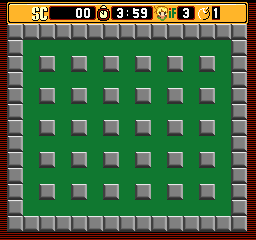
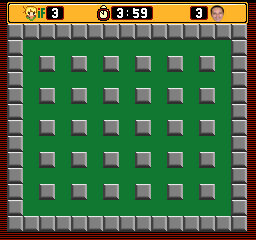
dano no boss

Changed region(s): [[0.5938, 0.0, 0.875, 0.0875], [0.0938, 0.0, 0.375, 0.0875]]

diff --git a/game.rb b/game.rb
@@ -9,7 +9,7 @@ require_relative 'boss'
 class GameWindow < Gosu::Window
   def initialize
     super(256, 240, true)
-    self.caption = "BomberBraulio v.0.2"
+    self.caption = "BomberBraulio v.0.3"
 
     @option = 1
     @image_index = 0
@@ -26,9 +26,6 @@ class GameWindow < Gosu::Window
     for i in 11..20 do @gameover[i] = Gosu::Image.new("images/gameOver2.png") end
 
     @boss_damaged = []
-    for i in 0..4 do @boss_damaged[i] = Gosu::Image.new("images/boss.png") end
-    for i in 5..10 do @boss_damaged[i] = Gosu::Image.new("images/boss_damage.png") end
-    for i in 11..14 do @boss_damaged[i] = Gosu::Image.new("images/boss.png") end
 
     @titleScreenOst = Gosu::Song.new("audio/TitleScreen.wav")
     @optionOst = Gosu::Sample.new("audio/opçãoSom.wav")
@@ -46,11 +43,12 @@ class GameWindow < Gosu::Window
     when :game
       @timer.relogio
       @battleOst.play(true)
+      #Movimentação do PLAYER
       @player.move_up if button_down? (Gosu::KbUp)
       @player.move_down if button_down? (Gosu::KbDown)
       @player.move_left if button_down? (Gosu::KbLeft)
       @player.move_right if button_down? (Gosu::KbRight)
-
+      #Colisão PLAYER-BOSS
       distanciaBoss = Gosu::distance(@player.x, @player.y, @boss.x, @boss.y)
       if distanciaBoss + 15 < @player.radius + @boss.radius then
         @player.y += 35 if button_down? (Gosu::KbUp)
@@ -60,18 +58,19 @@ class GameWindow < Gosu::Window
         @player.vidas -= 1
         @danoOst.play
       end
-
+      #Colisão BOMBA-BOSS
       @bombs.each do |bomb|
         @distanciaBomba = Gosu::distance(bomb.x, bomb.y, @boss.x, @boss.y)
         if @distanciaBomba - 10 < bomb.radius + @boss.radius then
           if bomb.finished == true then
-            @boss.damaged = true
+            @boss.damaged = true #trocar o sprite
             @boss.vidas -= 1
+            @image_index = 0 #reiniciar animação
           end
         end
       end
-
-      if @player.vidas == 0 || @boss.vidas == 0 then
+      #Condições que levam ao GAMEOVER
+      if @player.vidas == 0 || @boss.vidas == 0 || @timer.tempo == 0 then
         @estado = :over
       end
     when :over
@@ -98,20 +97,18 @@ class GameWindow < Gosu::Window
           @bombs.delete(bomb)
         end
       end
-
+      #Reutilizando o array @gameover para deixar a animação de dano mais lenta.
       if @boss.damaged == true
-        if @image_index < @boss_damaged.count
-          @boss.img = @boss_damaged[@image_index]
+        if @image_index < @gameover.count
           @image_index += 1
         else
           @boss.damaged = false
         end
       end
-
-      @font.draw(@boss.damaged, 30, 30, 1, 1, 1, 0xffffff00)
     when :over
       @font.draw("GAME", 18, 105, 1, 1, 1, 0xffffff00)
       @font.draw("OVER", 18, 135, 1, 1, 1, 0xffffff00)
+      #Animação do GAMEOVER
       if @image_index < @gameover.count
         @gameover[@image_index].draw(0, 0, 0)
         @image_index += 1

diff --git a/boss.rb b/boss.rb
@@ -11,16 +11,24 @@ class Boss
 
     @width = 48
 		@height = 48
-    @vidas = 3
-    @damaged = false
+    @vidas = 6
 
     @radius = 24
 
+    @damaged = false
+
     @img = Gosu::Image.new("images/boss.png")
+    @img_damaged = Gosu::Image.new("images/boss_damage.png")
+    @numbers = Gosu::Image::load_tiles('images/tile_8x14.png', 8, 14)
   end
 
   def draw
-    @img.draw_rot(@x, @y, 3, 1)
+    if @damaged == true
+      @img_damaged.draw_rot(@x, @y, 3, 1)
+    else
+      @img.draw_rot(@x, @y, 3, 1)
+    end
+    @numbers[@vidas].draw(195, 6, 3)
   end
 
 end

diff --git a/player.rb b/player.rb
@@ -31,8 +31,7 @@ class Player
 	#Exibe o personagem sobre o background e nas coordenadas @x e @y
 	def draw
 		@images[@image_index].draw(@x - @width / 2, @y - @height / 2, 3)
-		@numbers[@vidas].draw(182, 6, 3)
-		@numbers[@bomb_limit].draw(212, 6, 3)
+		@numbers[@vidas].draw(51, 6, 3)
 	end
 
 	#Move o personagem para cima e realiza a troca dos seus sprites.

diff --git a/timer.rb b/timer.rb
@@ -18,6 +18,7 @@ class Timer
     @seg2 = 0
 
     @tempo = 14400 # 4 min
+    @tempo = 3600
 
     @images = Gosu::Image::load_tiles('images/tile_8x14.png', 8, 14)
 
